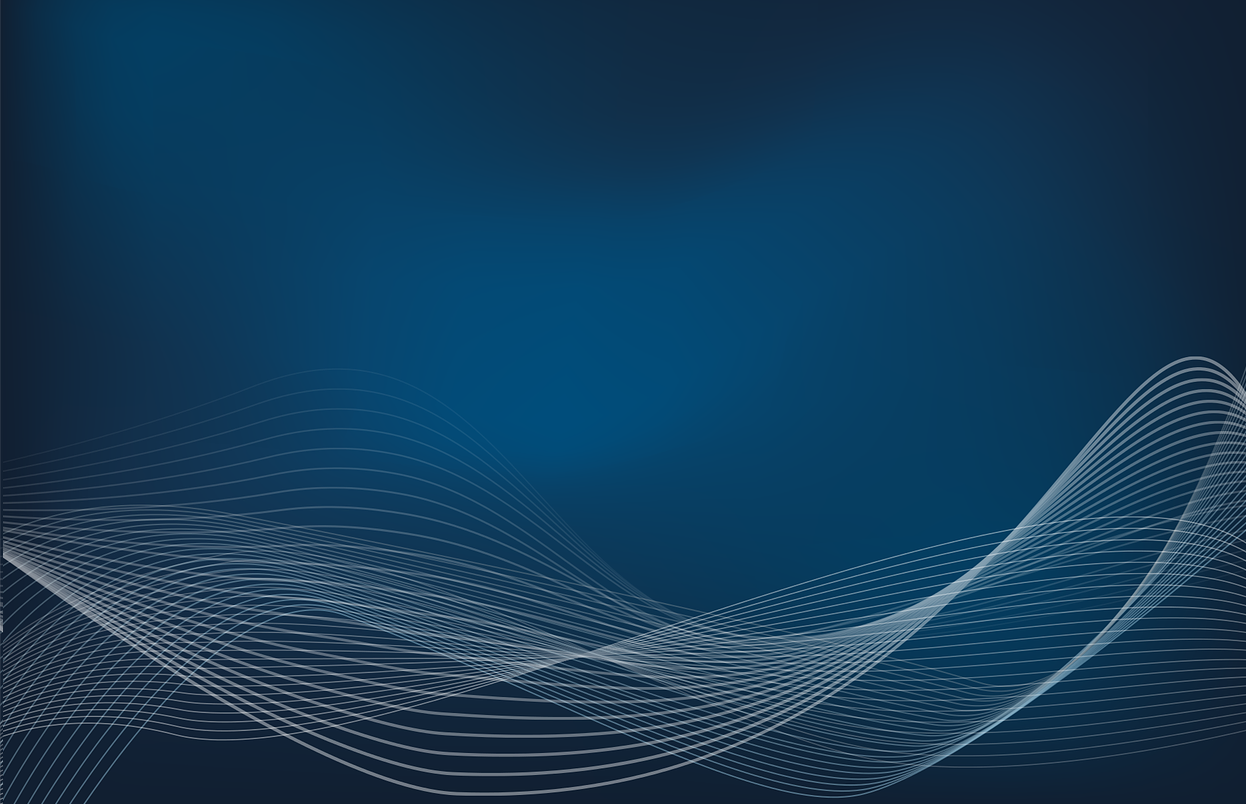
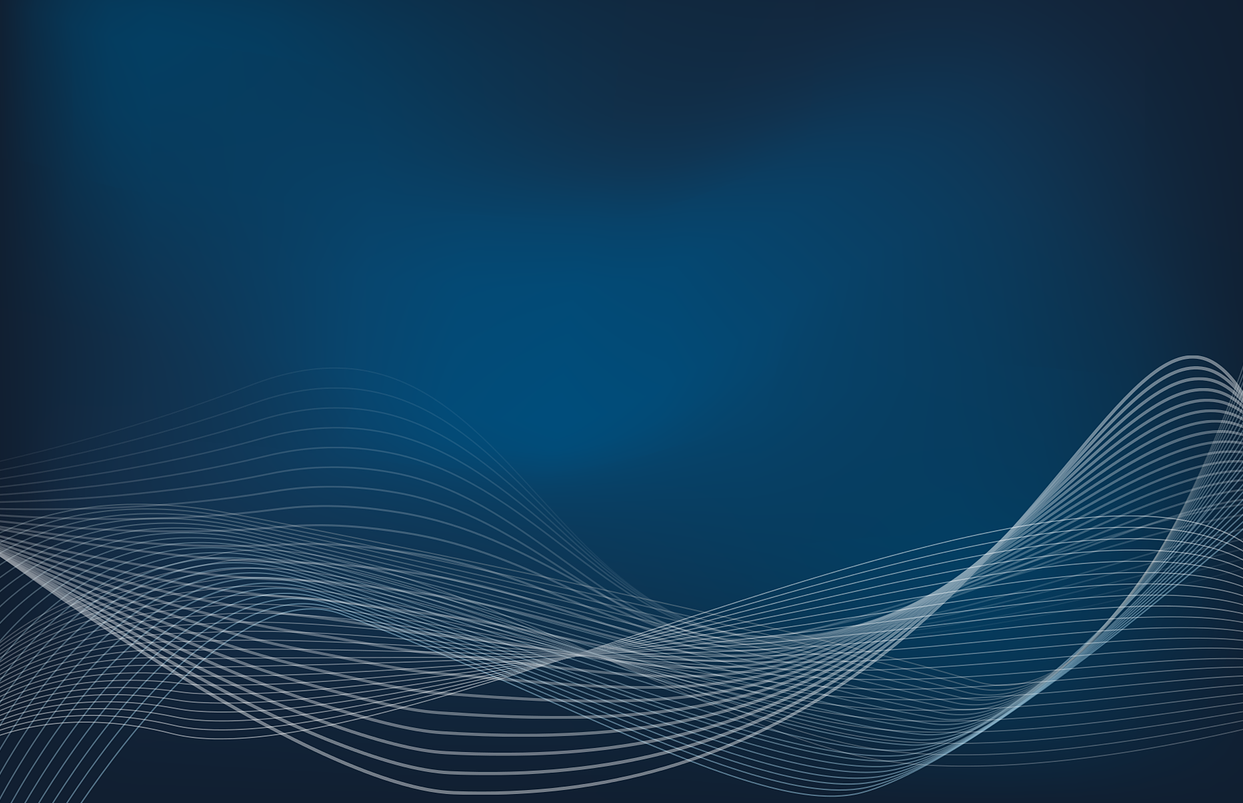
some style changes, and added sensorpage

Changed region(s): [[0.0, 0.4359, 1.0, 1.0], [0.9171, 0.6538, 1.0, 0.7472], [0.8866, 0.7472, 0.9171, 0.7783]]

diff --git a/src/main/resources/templates/sensordata.html b/src/main/resources/templates/sensordata.html
@@ -8,7 +8,7 @@
     <script src="https://cdnjs.cloudflare.com/ajax/libs/Chart.js/2.9.3/Chart.bundle.js"></script>
     <script src="script.js"></script>
 </head>
-<body>
+<body class="sensebody">
 
 <header>
     <div class="logo">
@@ -16,13 +16,13 @@
             <img class="logo-img" src="logo.png">
         </a>
     </div>
-    <div class="nav">
+    <nav>
         <a href="/home">Home</a>
         <a href="/sensordata">Sensor data</a>
-        <form th:action="@{/logout}" method="post">
+        <form class="logoutform" th:action="@{/logout}" method="post">
             <input class ="signout" type="submit" value="Sign out">
         </form>
-    </div>
+    </nav>
 </header>
 <div class="sensor-container">
 
@@ -43,7 +43,7 @@
                             -              - /*[(${item.getTemperature()})]*/undefined,
                             /*[/]*/
                         ],
-                        backgroundColor: '#c7d3dc',
+                        backgroundColor: '#76a9d3',
                         borderWidth:1,
                         borderColor:'grey',
                         pointRadius: 0
@@ -59,6 +59,7 @@
                     },
                     legend:{
                         position: 'bottom',
+                        fontSize: 20,
                         padding: 20,
                         labels: {
                             fontColor: 'black'
@@ -87,7 +88,7 @@
                             /*[/]*/
 
                         ],
-                        backgroundColor: '#c7d3dc',
+                        backgroundColor: '#B9D0DE',
                         borderWidth:1,
                         borderColor:'grey',
                         pointRadius: 0
@@ -131,7 +132,7 @@
                             /*[/]*/
 
                         ],
-                        backgroundColor: '#c7d3dc',
+                        backgroundColor: '#B9D0DE',
                         borderWidth:1,
                         borderColor:'grey',
                         pointRadius: 0

diff --git a/src/main/resources/static/style.css b/src/main/resources/static/style.css
@@ -11,6 +11,12 @@ body {
     background-size: cover;
 }
 
+.sensebody {
+    background-image: url("bghome.png") !important;
+    background-repeat: no-repeat;
+    background-size: cover;
+}
+
 * {
     box-sizing: border-box;
 }
@@ -162,6 +168,19 @@ h2 {
     font-family: myfont;
 }
 
+#MyTempChart, #HumidChart, #PressureChart{
+    width:900px !important;
+    height:600px !important;
+
+}
+
+.sensor-container {
+    display: flex;
+    flex-wrap: wrap;
+    align-content: center;
+    justify-content: center;
+}
+
 .error {
     border-style: solid;
     border-color: red;
@@ -181,26 +200,28 @@ h2 {
 
 .welcome {
     font-size: 18px;
-    width: 650px;
-    margin-left: 15%;
+    width: 640px;
+    margin-left: 12%;
     text-align: center;
     color: white;
 }
 
-.nav {
+nav {
     position: absolute;
     float: right;
     top: 30px;
     right: 25px;
 }
 
-.nav a {
+nav a {
+    float: left;
     text-decoration: none;
     color: #B9D0DE;
-    padding-right: 25px;
+    padding-right: 20px;
+    padding-top: 3px;
 }
 
-.nav a:hover {
+nav a:hover {
     color: rgb(85, 171, 241);
 }
 
@@ -290,11 +311,12 @@ td {
 
 .home-container {
     margin: auto;
-    margin-left: 15%;
     padding: 10px;
     overflow: hidden;
     display: flex;
     flex-wrap: wrap;
+    justify-content: center;
+    align-items: center;
 }
 
 .control-panel {

diff --git a/src/main/resources/templates/home.html b/src/main/resources/templates/home.html
@@ -16,14 +16,16 @@
             <img class="logo-img" src="logo.png">
         </a>
     </div>
-    <div class="nav">
+    <nav>
+        <a href="/home">Home</a>
+        <a href="/sensordata">Sensor data</a>
         <form class="logoutform" th:action="@{/logout}" method="post">
             <input class ="signout" type="submit" value="Sign out">
         </form>
-    </div>
+    </nav>
 </header>
 <div class="welcome">
-    <h3 th:text="${'Welcome ' + #httpServletRequest.remoteUser}"></h3>
+    <h3 th:text="${'Signed in as ' + #httpServletRequest.remoteUser}"></h3>
 </div>
 <div class="home-container">
     <div class="camera-and-controll">
@@ -57,7 +59,7 @@
                 <td>Time</td>
                 <td class="result" id="timestamp">37,8</td>
             </tr>
-            <tr>
+            <tr class="row">
                 <td>Temperature</td>
                 <td class="result" id="temperature" th:text="${sensorObservation.getTemperature()}"></td>
             </tr>

diff --git a/src/main/java/com/example/demo/controller/SensorController.java b/src/main/java/com/example/demo/controller/SensorController.java
@@ -21,10 +21,7 @@ public class SensorController {
 
 
     @GetMapping("/sensordata")
-<<<<<<< HEAD
-=======
 
->>>>>>> ad5200fcb24d9ac6b8ae4e32a8bc4ec2568f8c57
     public String testPage(Model model) {
         SensorObservation sensorObservation = sensorObservationRepository.findById(2082).get();
         List<SensorObservation> sensorObservationList = (List<SensorObservation>) sensorObservationRepository.findAll();
